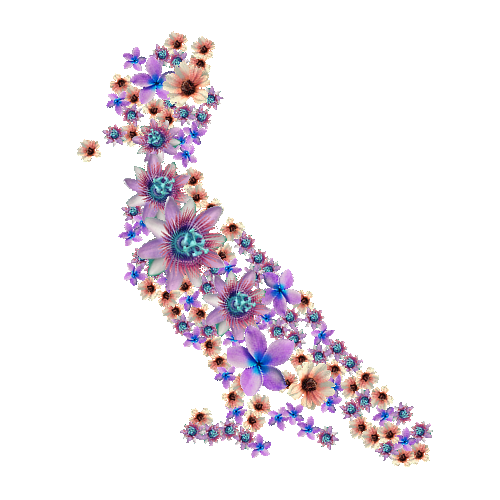
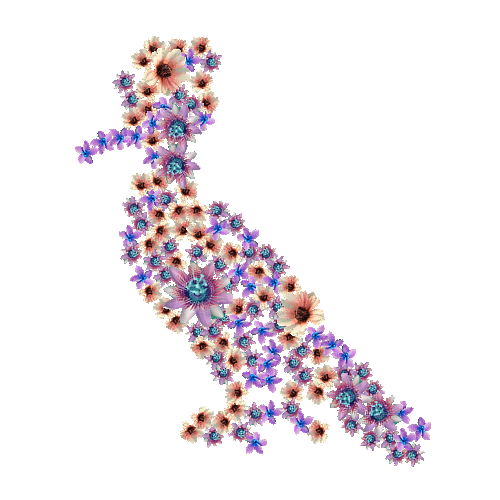
Image creation was added to the packing optimizer class

Changed region(s): [[0.15, 0.06, 0.87, 0.93]]

diff --git a/optimizer/packing_optimizer.py b/optimizer/packing_optimizer.py
@@ -8,6 +8,8 @@ import cv2
 import random
 import numpy as np
 
+from scipy.ndimage.interpolation import rotate
+
 from typing import Iterable, List, Tuple
 
 from . import utils
@@ -19,6 +21,7 @@ class PackingOptimizer:
     """
 
     def __init__(self, R: Iterable[int], image: np.ndarray) -> None:
+        self.centers: List[Tuple[int, int, int]]
         self.R = R.astype(np.int16) # circles radius
         
         self.image = image.copy() if len(image.shape) == 2 \
@@ -151,4 +154,36 @@ class PackingOptimizer:
             if i%10 == 0:
                 print(i)
 
-        return n_picked_centers
+        self.centers = n_picked_centers
+        return n_picked_centers.copy()
+
+
+    def make_image(self, scale: float,
+            labeled_filters: np.ndarray) -> np.ndarray:
+        flower_images = {}
+
+        for r in self.R:
+            h = int(2*scale*r)
+            w = int(2*scale*r)
+            flower_images[r] = [
+                cv2.resize(labeled_filter, (w+1, h+1))
+                for labeled_filter in labeled_filters
+            ]
+
+        # create new image using the flowers
+        should_rotate = True
+        synthetic_img = np.zeros((*self.image.shape, 4), dtype=np.uint8)
+        # add the biggest flowers last, so that they stay on top
+        # of the generated image
+        self.centers.sort(key=lambda c: c[-1])
+        for center in self.centers:
+            x, y, r = center
+            angle = np.random.randint(360) if should_rotate else 0
+            flower_img = random.choice(flower_images[r])
+            flower_img = rotate(flower_img, angle=angle, reshape=False)
+            mask = utils.rec_mask(self.image, x, y, int(scale*r)+1)
+
+            overlayed = utils.overlay(synthetic_img[mask], flower_img)
+            synthetic_img[mask] = overlayed.reshape(-1,4)
+
+        return synthetic_img

diff --git a/example.py b/example.py
@@ -4,10 +4,8 @@ Running example of how to use the packing optimizer
 
 # %%
 import cv2
-import random
 import numpy as np
 import matplotlib.pyplot as plt
-from scipy.ndimage.interpolation import rotate
 
 from optimizer import utils
 from optimizer import packing_optimizer as po
@@ -33,9 +31,9 @@ c = np.array(
 plt.imshow(image - c, cmap="gray")
 
 # %%
-# get flowers from our image
-# parameters from segmentation
-# where chosen after a few tries
+# Get flowers from our image.
+# Parameters for segmentation where chosen after a few tries.
+# If you have already masked your inputs you can just load it using opencv
 edges_params = [(30, 150), (30, 150), (30, 200)]
 grays = [0, 1, 1]
 blurs = [0, 0, 1]
@@ -76,36 +74,11 @@ plt.tight_layout()
 plt.show()
 
 # %%
-# resize image
-flower_images = {}
+
 scale = 1.5
-
-for r in R:
-    h = int(2*scale*r)
-    w = int(2*scale*r)
-    flower_images[r] = [
-        cv2.resize(labeled_filter, (w+1, h+1))
-        for labeled_filter in labeled_filters
-    ]
-
-# create new image using the flowers
-should_rotate = True
-synthetic_img = np.zeros((*image.shape, 4), dtype=np.uint8)
-# add the biggest flowers last, so that they stay on top
-# of the generated image
-centers.sort(key=lambda c: c[-1])
-for center in centers:
-    x, y, r = center
-    angle = np.random.randint(360) if should_rotate else 0
-    flower_img = random.choice(flower_images[r])
-    flower_img = rotate(flower_img, angle=angle, reshape=False)
-    mask = utils.rec_mask(image, x, y, int(scale*r)+1)
-
-    overlayed = utils.overlay(synthetic_img[mask], flower_img)
-    synthetic_img[mask] = overlayed.reshape(-1,4)
+synthetic_img = opt.make_image(scale, labeled_filters)
 
 plt.imshow(synthetic_img)
-
 # save output
 cv2.imwrite("imgs/out.png", synthetic_img)
 # %%
